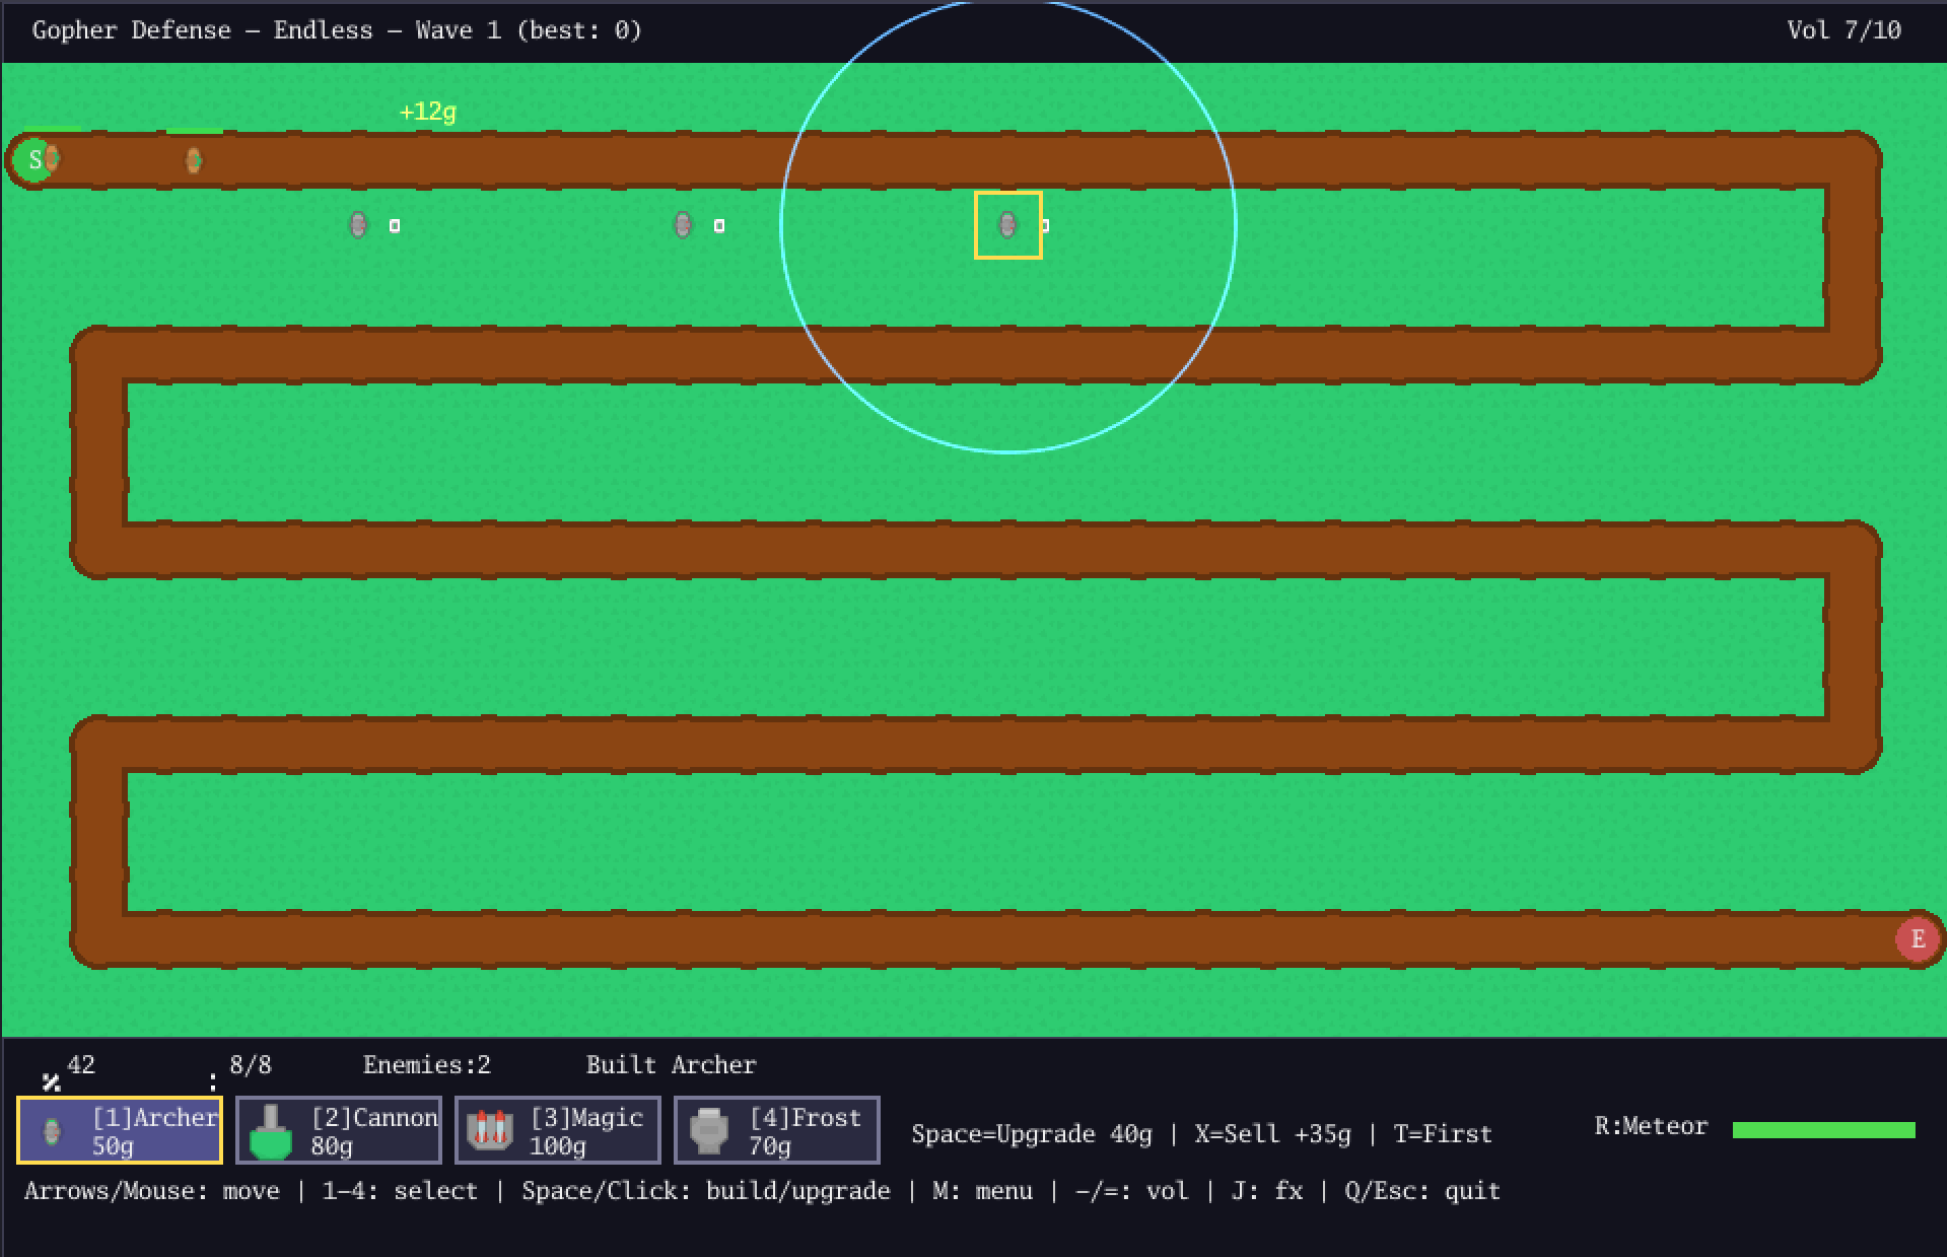
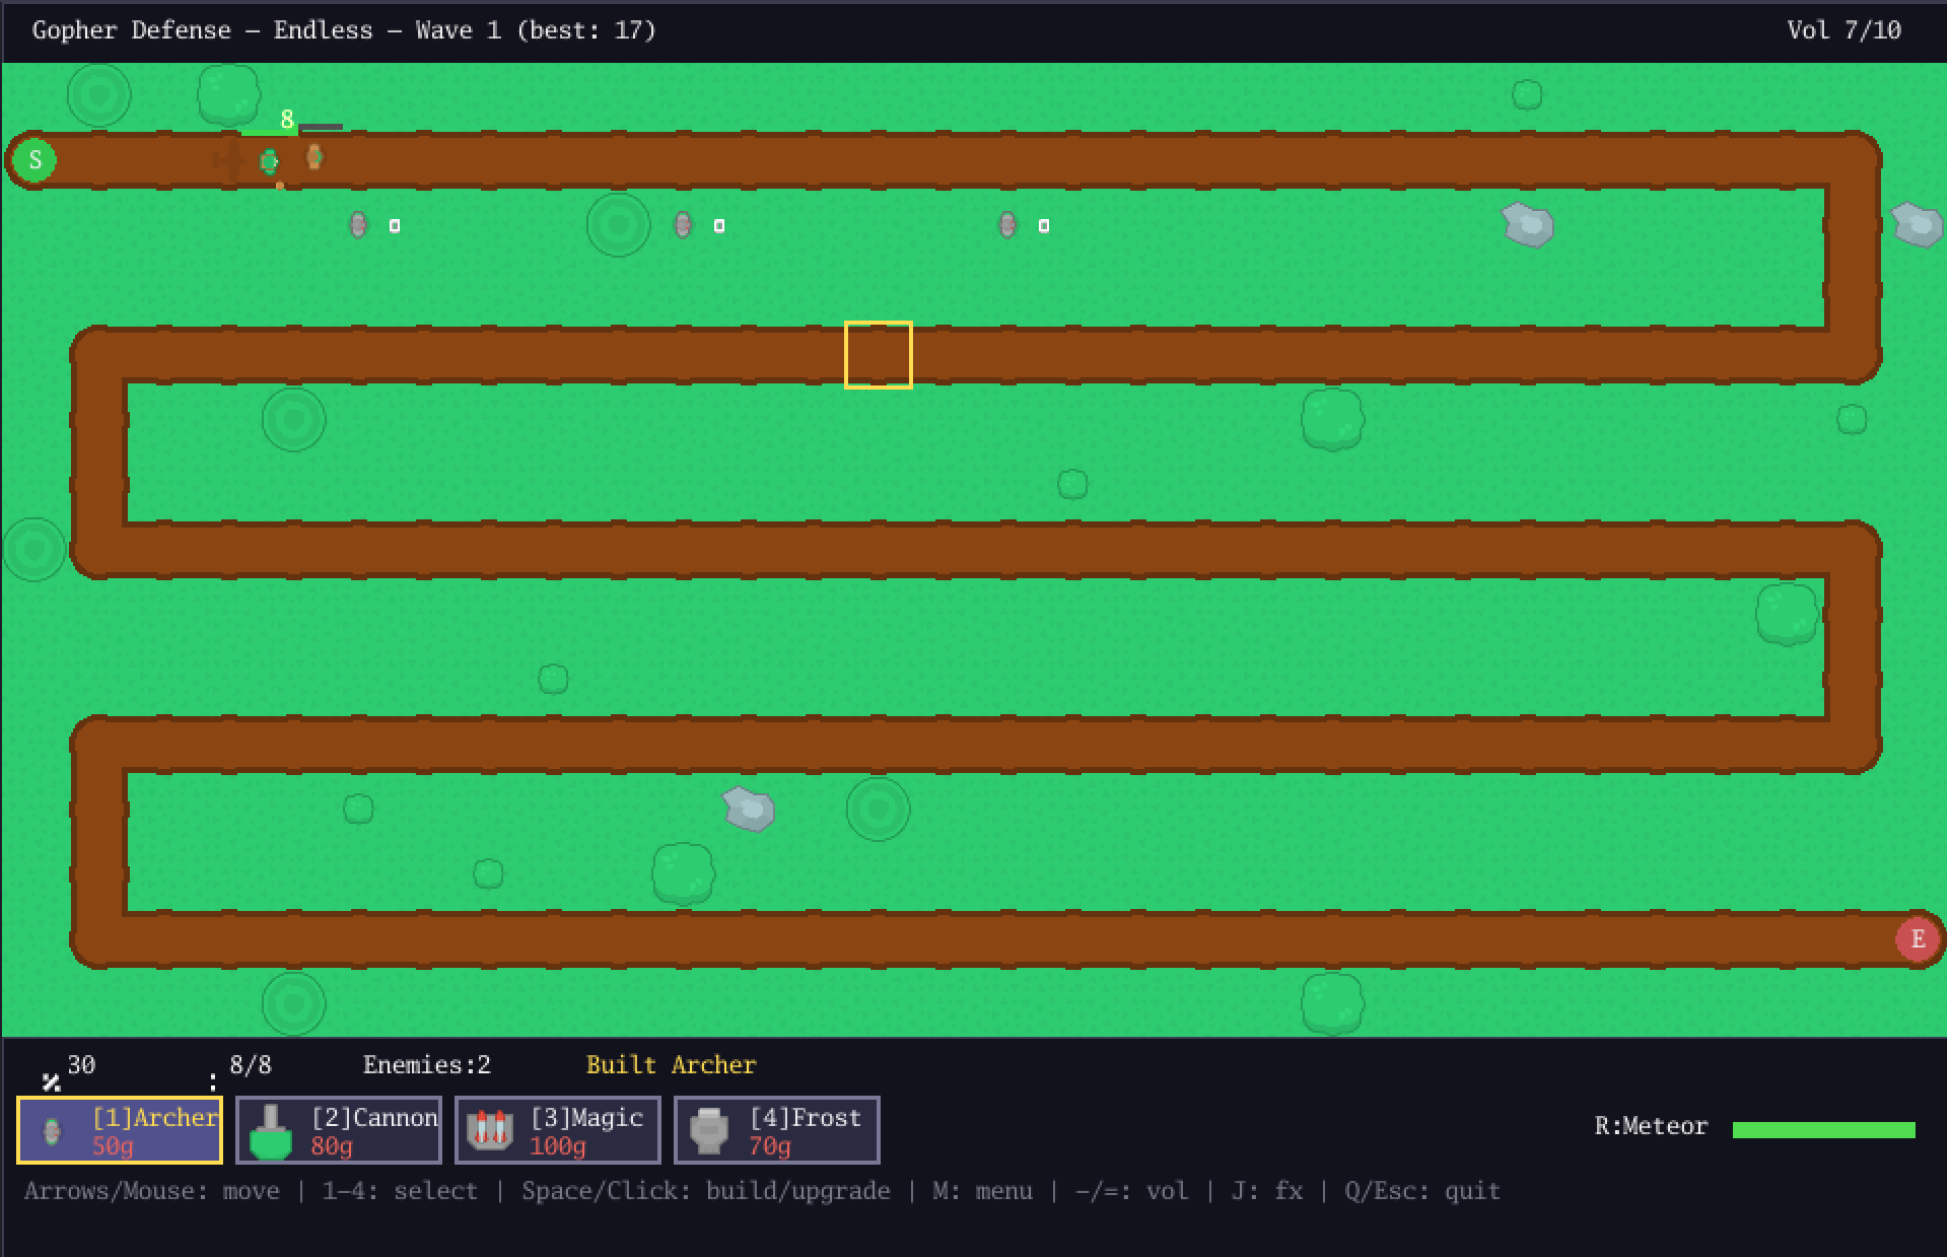
feat: V7.2 — UI 美化批次 M1+M2+M3 (126 tests)
用户反馈"界面太丑"第二批 (第一批 = 草地条纹修复 c5ff055)。

M1 菜单美化:
- 20pt 标题字体 face (消 V3 P5c 未竟项"多字号") + drawTextBigCol
- 大标题青色 + 副标题/统计灰阶层次; 新增总星数统计 (金色 Stars N/60)
- 关卡行分段上色 (等宽 7px/char 偏移): 键位青 / DONE 绿 / LOCK 灰
  / 名称白 / 星星金 / stats 灰; 锁定行整体变灰
- endless 行紫 (模式入口) / 帮助行灰 (降噪) / Msg 黄 (反馈醒目)

M2 HUD 美化:
- 塔按钮 cost 实时红绿 (买得起绿/买不起红 — 实用信息可视化)
- 选中塔名金色; 塔上操作提示青; 状态行 Msg 黄; 帮助行降噪灰

M3 地图质感:
- 装饰散布: 树/灌木×2/石头 (tile 134/131/132/137, PIL 调研确认
  透明底独立 sprite)
- genDecor: 按 level ID 确定性散布 (seed 注入惯例), 密度 7%,
  仅避开 path; 纯视觉 — 塔渲染在装饰之上, term 忽略
- 渲染层: grass 之上 path 之下

测试 124 → 126 (+2): genDecor 确定性/避路/kind 域/密度 sanity
/ StartLevel+StartEndless 都生成

README 截图 ×3 全部重拍 (browser_run_code_unsafe 单段流程)

verify:
- go build . / -tags term / WASM   ✓ ×3
- go test ./... 126/126 PASS       ✓
- WASM 截图验收: M1/M2/M3 全要素入帧 ✓

diff --git a/ebiten_renderer.go b/ebiten_renderer.go
@@ -417,26 +417,33 @@ func (eg *EbitenGame) drawLevelSelect(screen *ebiten.Image) {
 		color.RGBA{R: 15, G: 15, B: 25, A: 230})
 	strokeRect(screen, 0, 0, float32(windowW), 50,
 		color.RGBA{R: 60, G: 60, B: 80, A: 255}, 1)
-	drawText(screen,
-		" Gopher Defense  —  Select Level", 20, 10)
+	// V7.2 M1: 大标题 (20pt 青) + 副标题/统计灰阶层次
+	drawTextBigCol(screen, "Gopher Defense", 20, 6,
+		color.RGBA{R: 120, G: 220, B: 255, A: 255})
+	drawTextCol(screen, "Select Level", 220, 14,
+		color.RGBA{R: 140, G: 140, B: 160, A: 255})
 	// V4 Phase 2: 音量档显示 (右上角, -/= 调节)
-	drawText(screen,
+	drawTextCol(screen,
 		fmt.Sprintf("Vol %d/%d (-/=)", g.Save.VolumeLevel(), maxVolume),
-		windowW-130, 10)
+		windowW-130, 10, color.RGBA{R: 170, G: 170, B: 190, A: 255})
 	// V6 Phase 2: 难度显示 (右上角第二行, D 切换)
-	drawText(screen,
+	drawTextCol(screen,
 		fmt.Sprintf("Diff: %s (D)", g.Save.Difficulty.Spec().Name),
-		windowW-130, 28)
+		windowW-130, 28, color.RGBA{R: 170, G: 170, B: 190, A: 255})
 
-	completed := 0
+	completed, totalStars := 0, 0
 	for _, lv := range g.Levels {
 		if g.Save.IsCompleted(lv.ID) {
 			completed++
 		}
+		totalStars += g.Save.StarsFor(lv.ID)
 	}
-	drawText(screen,
-		fmt.Sprintf(" Progress: %d / %d cleared", completed, len(g.Levels)),
-		20, 28)
+	drawTextCol(screen,
+		fmt.Sprintf("Progress %d/%d", completed, len(g.Levels)),
+		20, 32, color.RGBA{R: 140, G: 140, B: 160, A: 255})
+	drawTextCol(screen,
+		fmt.Sprintf("Stars %d/%d", totalStars, len(g.Levels)*3),
+		160, 32, color.RGBA{R: 255, G: 200, B: 40, A: 255})
 
 	// V3 Phase 5a: 每关 row 用 box (panel + border)
 	// 状态颜色: 通关绿底, 锁定灰底, 默认深底; hover unlocked 加金边
@@ -499,19 +506,33 @@ func (eg *EbitenGame) drawLevelSelect(screen *ebiten.Image) {
 		strokeRect(screen, float32(x), float32(y),
 			float32(colW), float32(rowH-rowMargin), borderCol, 2)
 
-		// Status indicator (left side)
-		status := "[    ]"
-		if isCompleted {
-			status = "[DONE]"
-		} else if !isUnlocked {
-			status = "[LOCK]"
-		}
-
-		// V6 Phase 4: 星级显示 (ASCII '*', 最高 3)
+		// V6 Phase 4 星级 + V7.2 M1 行内分段上色 (等宽 7px/char 偏移)
 		stars := strings.Repeat("*", g.Save.StarsFor(lv.ID))
-		line := fmt.Sprintf("[%s] %s Lv%2d %-14s %-3s (w:%d g:%d l:%d)",
-			keyStr, status, lv.ID, lv.Name, stars, len(lv.Waves), lv.StartGold, lv.StartLives)
-		drawText(screen, line, x+10, y+12)
+		tx := x + 10
+		seg := func(s string, col color.RGBA) {
+			drawTextCol(screen, s, tx, y+12, col)
+			tx += len(s) * 7
+		}
+		cKey := color.RGBA{R: 120, G: 220, B: 255, A: 255}  // 青
+		cName := color.RGBA{R: 235, G: 235, B: 240, A: 255} // 白
+		cDim := color.RGBA{R: 120, G: 120, B: 135, A: 255}  // 灰
+		cGold := color.RGBA{R: 255, G: 200, B: 40, A: 255}  // 金
+		cDone := color.RGBA{R: 90, G: 220, B: 110, A: 255}  // 绿
+		if !isUnlocked {
+			cKey, cName, cGold = cDim, cDim, cDim
+		}
+		seg(fmt.Sprintf("[%s] ", keyStr), cKey)
+		switch {
+		case isCompleted:
+			seg("[DONE] ", cDone)
+		case !isUnlocked:
+			seg("[LOCK] ", cDim)
+		default:
+			seg("[    ] ", cDim)
+		}
+		seg(fmt.Sprintf("Lv%2d %-14s ", lv.ID, lv.Name), cName)
+		seg(fmt.Sprintf("%-3s ", stars), cGold)
+		seg(fmt.Sprintf("(w:%d g:%d l:%d)", len(lv.Waves), lv.StartGold, lv.StartLives), cDim)
 	}
 
 	// Help row + msg (V6: 按每列最大行数定位)
@@ -521,12 +542,14 @@ func (eg *EbitenGame) drawLevelSelect(screen *ebiten.Image) {
 	if g.Save.BestWave > 0 {
 		endlessLine = fmt.Sprintf(" [E] Endless mode — best: wave %d", g.Save.BestWave)
 	}
-	drawText(screen, endlessLine, 20, helpY)
-	drawText(screen,
+	drawTextCol(screen, endlessLine, 20, helpY,
+		color.RGBA{R: 190, G: 160, B: 255, A: 255}) // 紫: 模式入口醒目
+	drawTextCol(screen,
 		" Click row to start (1-9/0 for Lv 1-10) | Q/Esc to quit",
-		20, helpY+18)
+		20, helpY+18, color.RGBA{R: 120, G: 120, B: 135, A: 255}) // 帮助行降噪
 	if g.Msg != "" {
-		drawText(screen, " "+g.Msg, 20, helpY+36)
+		drawTextCol(screen, " "+g.Msg, 20, helpY+36,
+			color.RGBA{R: 255, G: 220, B: 80, A: 255}) // Msg 黄: 反馈醒目
 	}
 }
 
@@ -572,6 +595,14 @@ func (eg *EbitenGame) drawGame(screen *ebiten.Image) {
 				px, py := cellPos(Point{X: x, Y: y})
 				drawTile(screen, spriteGrass, px, py)
 			}
+		}
+	}
+
+	// V7.2 M3: 装饰散布 (grass 之上, path/塔之下, 纯视觉)
+	if tilesheet != nil {
+		for _, ds := range g.Decor {
+			dx, dy := cellPos(ds.Pos)
+			drawTile(screen, decorSpriteID(ds.Kind), dx, dy)
 		}
 	}
 
@@ -830,8 +861,9 @@ func (eg *EbitenGame) drawGame(screen *ebiten.Image) {
 	drawText(screen,
 		fmt.Sprintf("Enemies:%-3d", g.CountAliveEnemies()), curX, statusY)
 	curX += 110
-	// msg
-	drawText(screen, g.Msg, curX, statusY)
+	// msg (V7.2 M2: 黄色醒目)
+	drawTextCol(screen, g.Msg, curX, statusY,
+		color.RGBA{R: 255, G: 220, B: 80, A: 255})
 	// prep timer (right edge)
 	if g.prepTimer > 0 && g.Phase == PhasePlaying {
 		prepMsg := fmt.Sprintf("PREP: %.1fs", g.prepTimer)
@@ -873,12 +905,21 @@ func (eg *EbitenGame) drawGame(screen *ebiten.Image) {
 				float32(btnX+1), float32(selY+1), 1.0, 1.0)
 		}
 		// label 2 行: [N]Name 在上, Cost 在下
-		drawText(screen,
+		// V7.2 M2: 选中名金色; cost 买得起绿 / 买不起红
+		nameCol := color.RGBA{R: 235, G: 235, B: 240, A: 255}
+		if k == g.Selected {
+			nameCol = color.RGBA{R: 255, G: 220, B: 80, A: 255}
+		}
+		costCol := color.RGBA{R: 90, G: 220, B: 110, A: 255}
+		if g.Gold < spec.Levels[0].Cost {
+			costCol = color.RGBA{R: 235, G: 100, B: 90, A: 255}
+		}
+		drawTextCol(screen,
 			fmt.Sprintf("[%d]%s", int(k)+1, spec.Name),
-			btnX+36, selY+4)
-		drawText(screen,
+			btnX+36, selY+4, nameCol)
+		drawTextCol(screen,
 			fmt.Sprintf("%dg", spec.Levels[0].Cost),
-			btnX+36, selY+18)
+			btnX+36, selY+18, costCol)
 		btnX += btnW + btnGap
 	}
 
@@ -893,7 +934,8 @@ func (eg *EbitenGame) drawGame(screen *ebiten.Image) {
 		}
 		hint += fmt.Sprintf(" | X=Sell +%dg | T=%s",
 			sellRefund(atTower.Kind, atTower.Level), atTower.Target.Name())
-		drawText(screen, hint, btnX+8, selY+12)
+		drawTextCol(screen, hint, btnX+8, selY+12,
+			color.RGBA{R: 150, G: 210, B: 235, A: 255}) // V7.2 M2: 操作提示青}
 	}
 
 	// V5 Phase 5: 陨石冷却条 (按钮行最右; AC "冷却条显示")
@@ -918,9 +960,9 @@ func (eg *EbitenGame) drawGame(screen *ebiten.Image) {
 
 	// help row
 	helpY := selY + btnH + 8
-	drawText(screen,
+	drawTextCol(screen,
 		" Arrows/Mouse: move | 1-4: select | Space/Click: build/upgrade | M: menu | -/=: vol | J: fx | Q/Esc: quit",
-		4, helpY)
+		4, helpY, color.RGBA{R: 120, G: 120, B: 135, A: 255}) // V7.2 M2: 帮助行降噪
 
 	// banner
 	bannerX := windowW/2 - 130

diff --git a/game_test.go b/game_test.go
@@ -2143,3 +2143,53 @@ func TestStars_OldSaveCompat(t *testing.T) {
 		t.Errorf("record on nil map should init, got %d", s.StarsFor(1))
 	}
 }
+
+// ============================================================
+// V7.2 M3: 地图装饰生成 (确定性 + path 避让)
+// ============================================================
+
+func TestDecor_DeterministicAndAvoidsPath(t *testing.T) {
+	levels, err := LoadLevels()
+	if err != nil {
+		t.Fatal(err)
+	}
+	lv := levels[0]
+	lookup := map[Point]bool{}
+	for _, p := range lv.Path {
+		lookup[p] = true
+	}
+	d1 := genDecor(lv, lookup)
+	d2 := genDecor(lv, lookup)
+	if len(d1) != len(d2) {
+		t.Fatalf("same level should give same decor count: %d vs %d", len(d1), len(d2))
+	}
+	for i := range d1 {
+		if d1[i] != d2[i] {
+			t.Fatalf("decor[%d] differs: %+v vs %+v (确定性破坏)", i, d1[i], d2[i])
+		}
+	}
+	for _, ds := range d1 {
+		if lookup[ds.Pos] {
+			t.Errorf("decor at %v overlaps path", ds.Pos)
+		}
+		if ds.Kind < 0 || ds.Kind > 3 {
+			t.Errorf("decor kind %d out of range", ds.Kind)
+		}
+	}
+	// 密度 sanity: 7% × ~420 非 path cell ≈ 30, 容差 10-60
+	if len(d1) < 10 || len(d1) > 60 {
+		t.Errorf("decor count %d outside sane range", len(d1))
+	}
+}
+
+func TestDecor_GeneratedOnRunStart(t *testing.T) {
+	g := newTestGame()
+	if len(g.Decor) == 0 {
+		t.Errorf("StartLevel should generate decor")
+	}
+	g.BackToMenu()
+	g.StartEndless(42)
+	if len(g.Decor) == 0 {
+		t.Errorf("StartEndless should generate decor")
+	}
+}

diff --git a/font_loader.go b/font_loader.go
@@ -21,11 +21,15 @@ import (
 )
 
 var (
-	gameFontFace font.Face
-	textWhite    = color.RGBA{R: 240, G: 240, B: 240, A: 255}
+	gameFontFace  font.Face
+	titleFontFace font.Face // V7.2 M1: 20pt 标题字 (消 V3 P5c 未竟项"多字号")
+	textWhite     = color.RGBA{R: 240, G: 240, B: 240, A: 255}
 )
 
-const fontAscent = 10 // 12pt gomono ascent, top-left → baseline 偏移
+const (
+	fontAscent      = 10 // 12pt gomono ascent, top-left → baseline 偏移
+	titleFontAscent = 17 // 20pt
+)
 
 func loadGameFont() error {
 	if gameFontFace != nil {
@@ -44,7 +48,25 @@ func loadGameFont() error {
 		return err
 	}
 	gameFontFace = face
+	// V7.2 M1: 标题字号 (同一 ttf 第二个 face)
+	tface, err := opentype.NewFace(tt, &opentype.FaceOptions{
+		Size:    20,
+		DPI:     72,
+		Hinting: font.HintingFull,
+	})
+	if err != nil {
+		return err
+	}
+	titleFontFace = tface
 	return nil
+}
+
+// drawTextBigCol: V7.2 M1 — 20pt 标题字带色变体, 坐标系同 drawText。
+func drawTextBigCol(screen *ebiten.Image, str string, x, y int, col color.Color) {
+	if titleFontFace == nil {
+		return
+	}
+	etext.Draw(screen, str, titleFontFace, x, y+titleFontAscent, col)
 }
 
 // drawText: 兼容 ebitenutil.DebugPrintAt (top-left anchor) 坐标系

diff --git a/game.go b/game.go
@@ -47,6 +47,9 @@ type Game struct {
 	endlessLv  Level      // 合成关卡 (path + 动态增长的 waves)
 	endlessRng *rand.Rand // seed 注入, 确定性可测
 
+	// V7.2 M3: 地图装饰 (纯视觉, ebiten 渲染消费, term 忽略)
+	Decor []DecorSpot
+
 	Gold       int
 	Lives      int
 	StartLives int
@@ -127,6 +130,32 @@ func (g *Game) beginRun(lv Level) {
 	g.spawned = 0
 	g.spawnTimer = 0
 	g.MeteorCD = 0 // V5 Phase 5: 每关开局技能就绪
+	g.Decor = genDecor(lv, g.pathLookup)
+}
+
+// DecorSpot: V7.2 M3 — 地图装饰点 (kind 0=树 1=灌木 2=小灌木 3=石头)。
+type DecorSpot struct {
+	Pos  Point
+	Kind int
+}
+
+// genDecor: 按 level ID 确定性散布装饰 (seed 注入惯例, 同关恒同布局)。
+// 仅避开 path; 塔可建在装饰上 (装饰纯视觉, 塔渲染在其上)。
+func genDecor(lv Level, pathLookup map[Point]bool) []DecorSpot {
+	rng := rand.New(rand.NewSource(int64(lv.ID)*7919 + 42))
+	var out []DecorSpot
+	for y := 0; y < mapH; y++ {
+		for x := 0; x < mapW; x++ {
+			p := Point{X: x, Y: y}
+			if pathLookup[p] {
+				continue
+			}
+			if rng.Float64() < 0.07 {
+				out = append(out, DecorSpot{Pos: p, Kind: rng.Intn(4)})
+			}
+		}
+	}
+	return out
 }
 
 func (g *Game) BackToMenu() {

diff --git a/sprite_loader.go b/sprite_loader.go
@@ -56,6 +56,11 @@ const (
 	// V3 Phase 4: UI icon
 	spriteGold  = 287 // $ symbol (gold counter)
 	spriteLives = 289 // + cross (lives counter)
+	// V7.2 M3: 地图装饰 (透明底独立 sprite, 调研见 /tmp/rows4-6)
+	spriteDecorTree   = 134
+	spriteDecorBush   = 131
+	spriteDecorBushSm = 132
+	spriteDecorRock   = 137
 )
 
 // bulletSpriteID 按塔型返回投射物 sprite
@@ -216,4 +221,18 @@ func enemySpriteID(kind EnemyKind) int {
 		return spriteEnemySpawner
 	}
 	return spriteEnemyNormal
+}
+
+// decorSpriteID: V7.2 M3 — 装饰 kind (0-3) → sprite。
+func decorSpriteID(kind int) int {
+	switch kind {
+	case 1:
+		return spriteDecorBush
+	case 2:
+		return spriteDecorBushSm
+	case 3:
+		return spriteDecorRock
+	default:
+		return spriteDecorTree
+	}
 }
